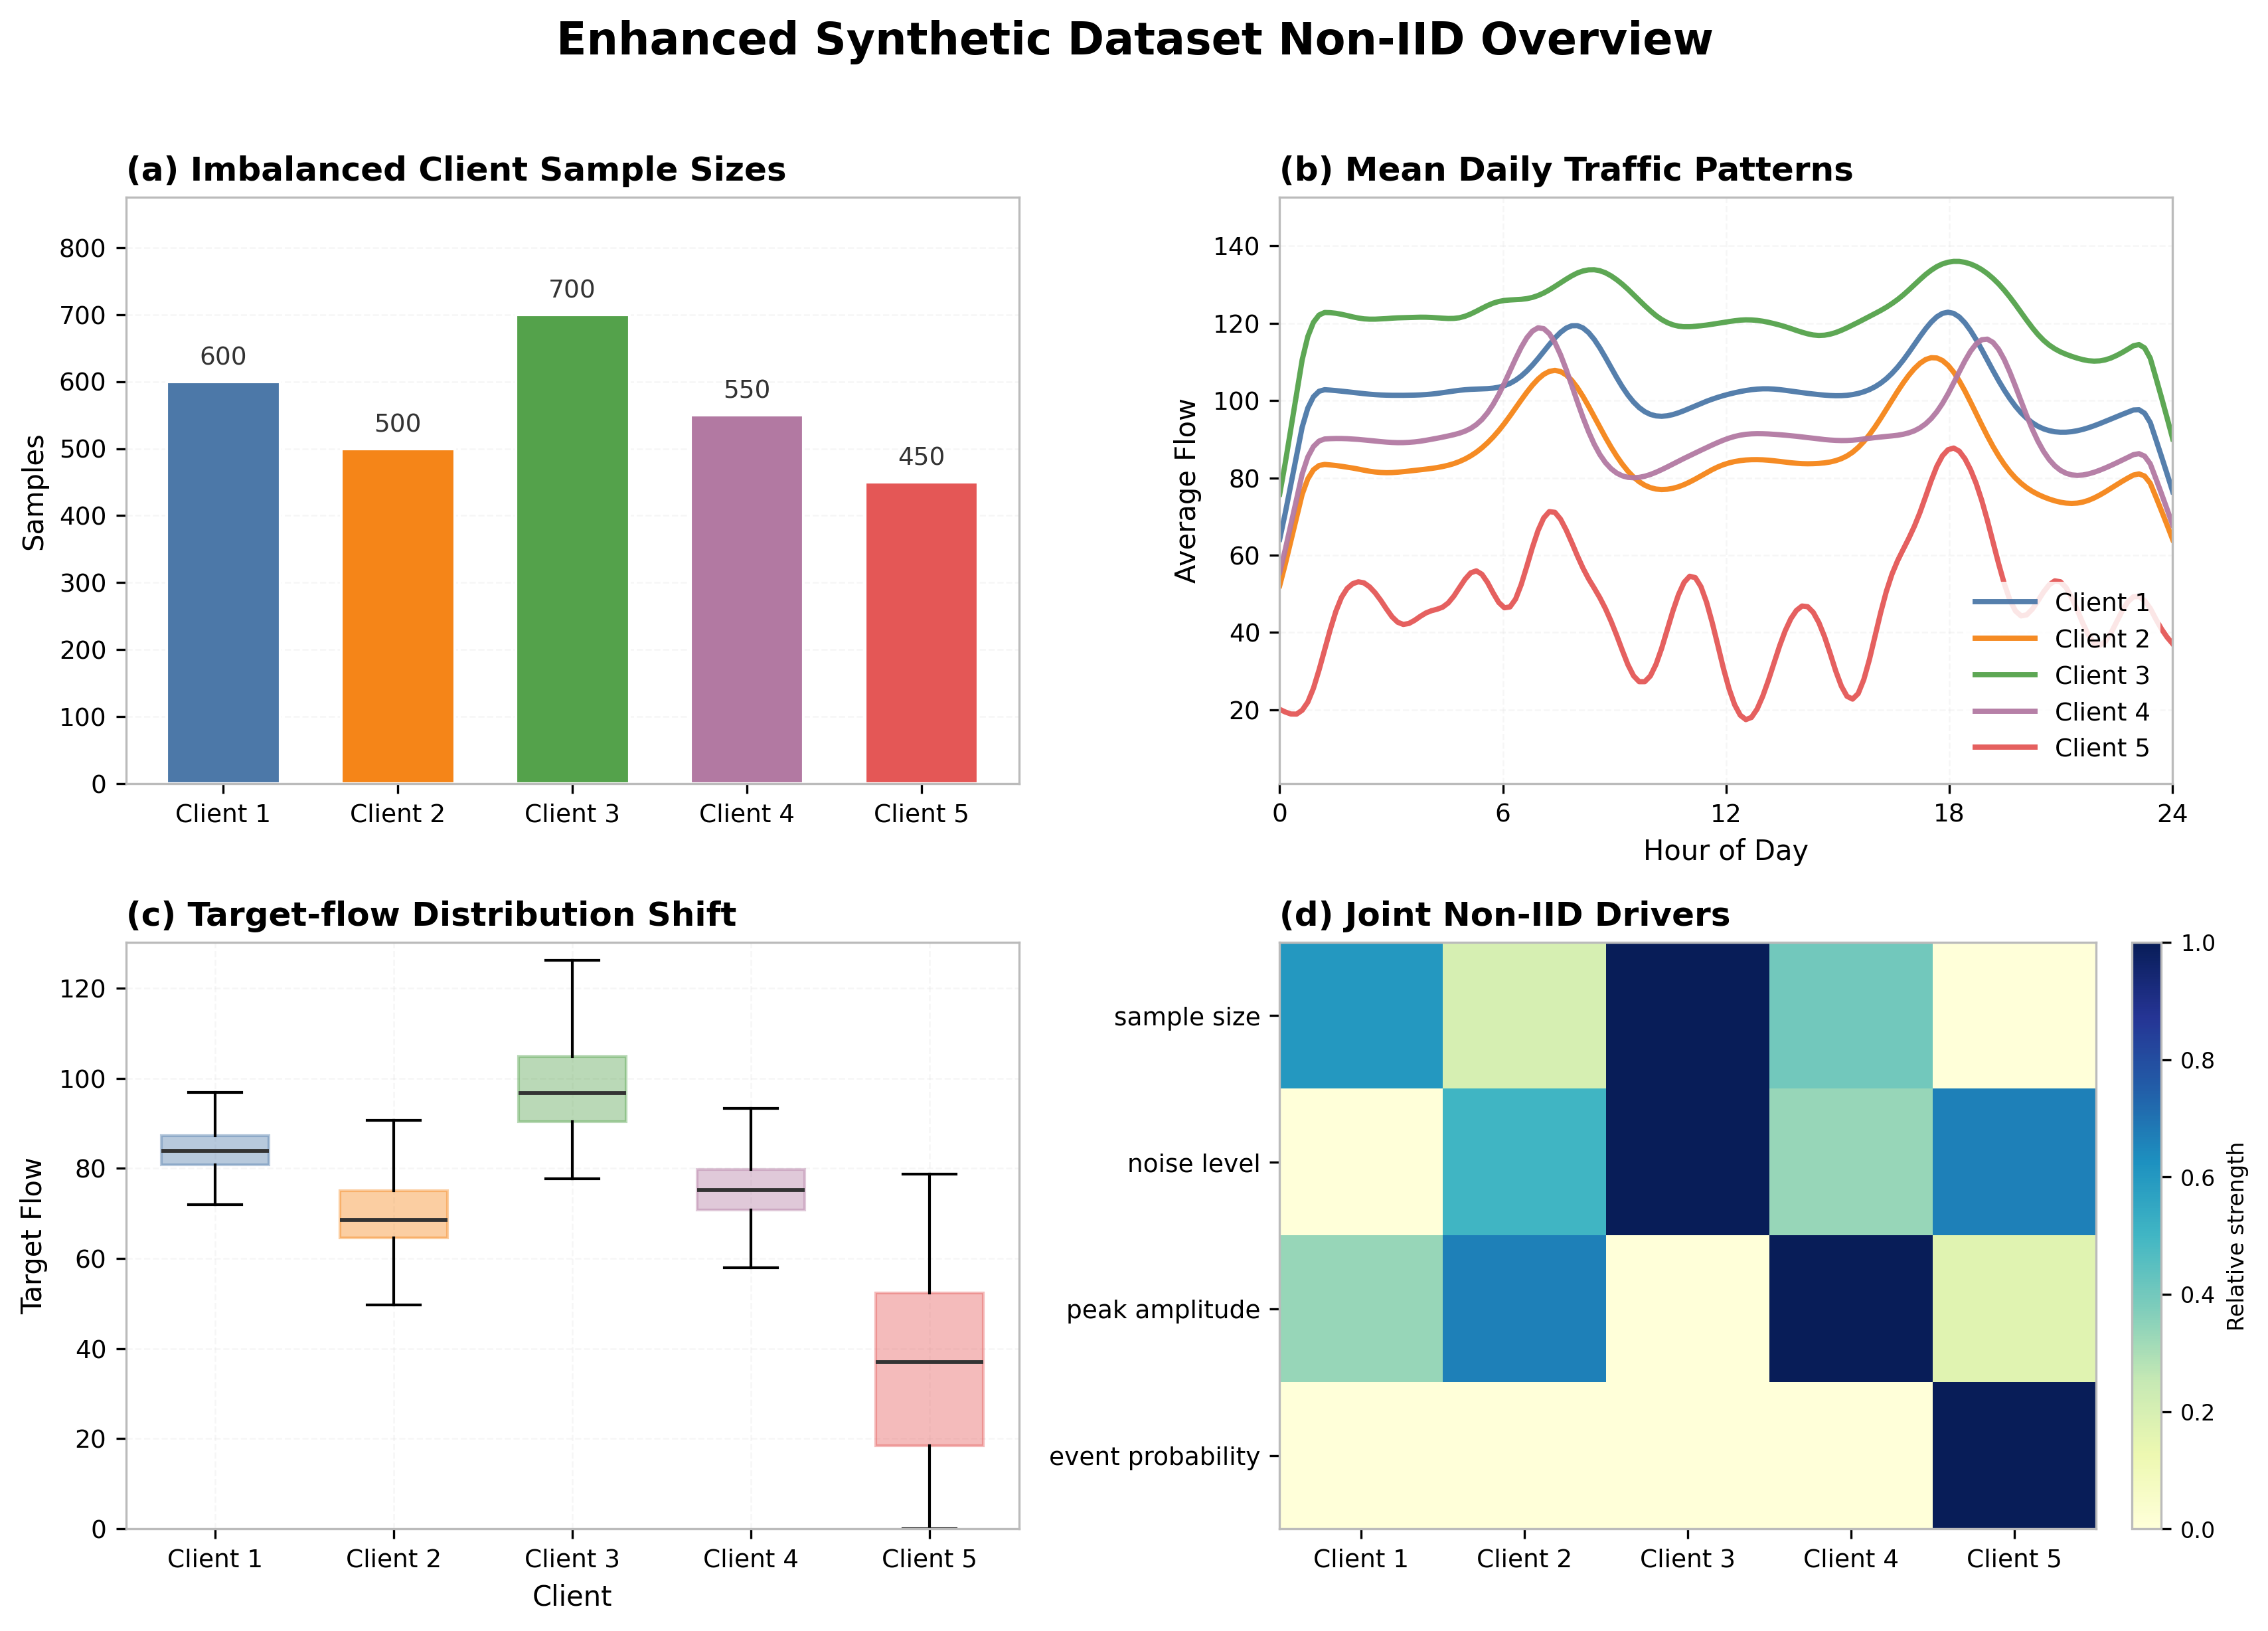
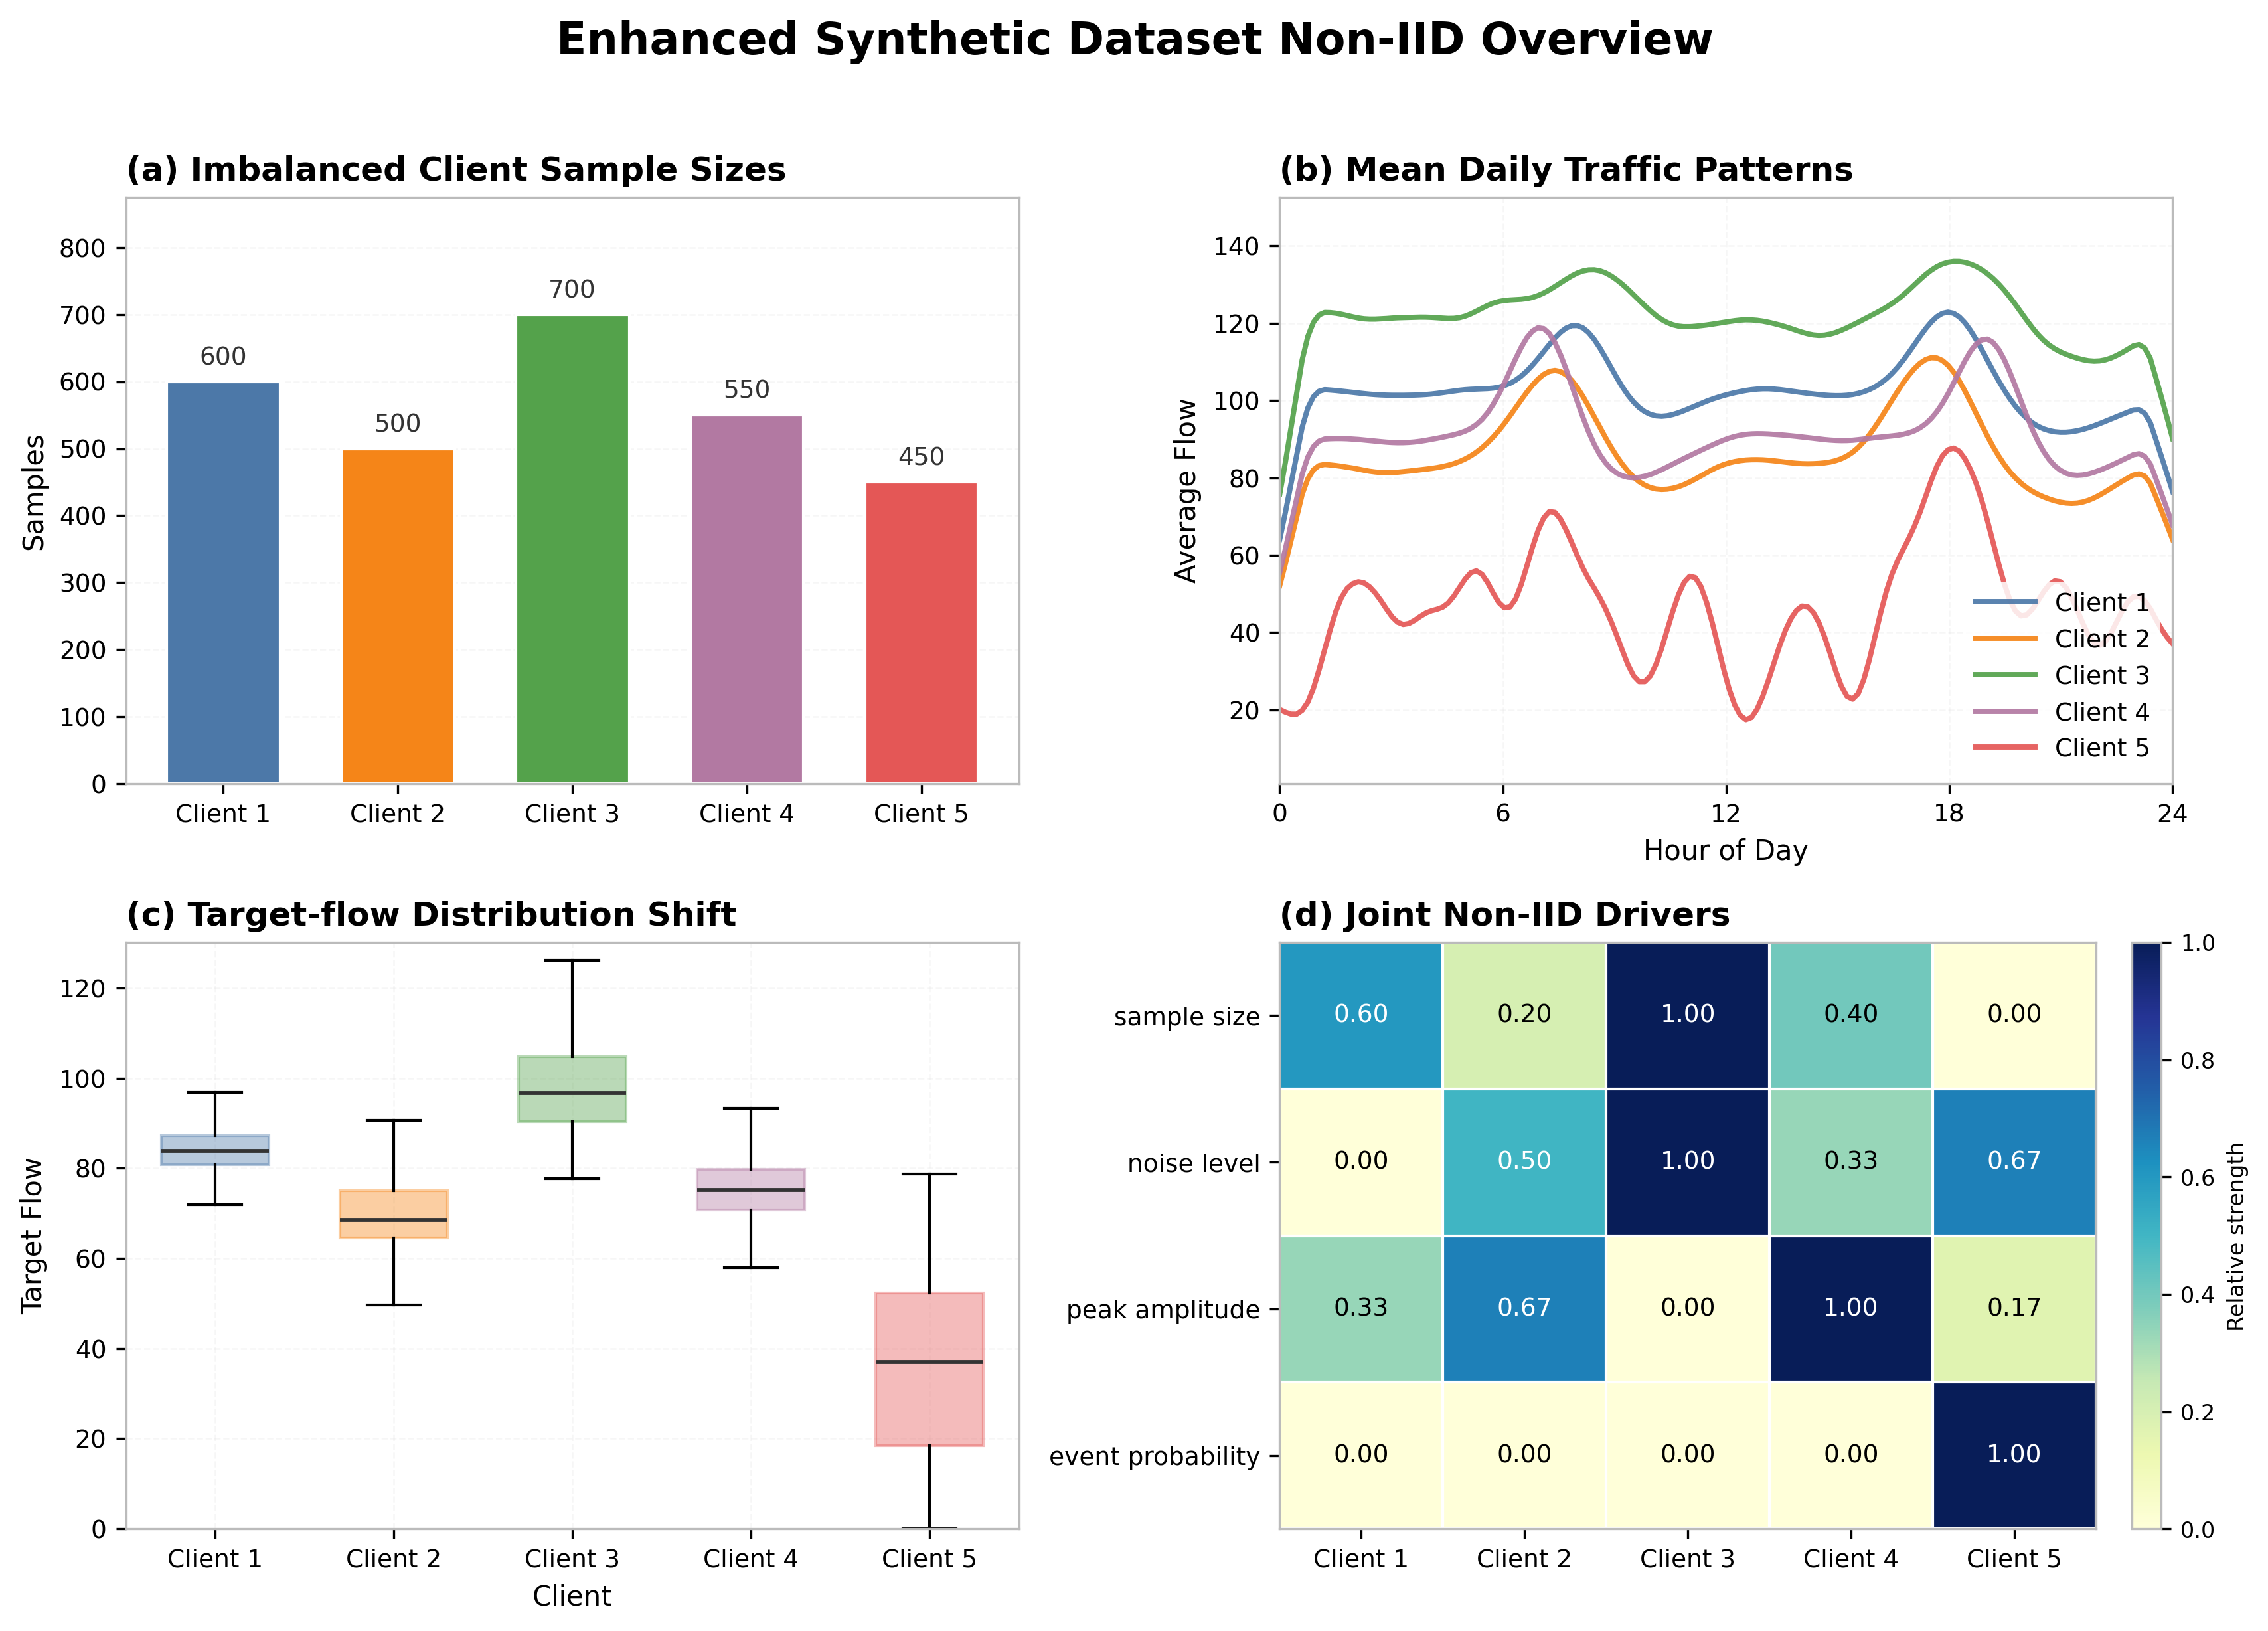
Refine overview trajectories and annotate heatmaps

Changed region(s): [[0.5896, 0.8664, 0.6206, 0.8974]]

diff --git a/simulation_experiments/simulation_dataset_overview_visualization.py b/simulation_experiments/simulation_dataset_overview_visualization.py
@@ -101,6 +101,30 @@ def _configure_line_panel(ax, legend_items: int) -> None:
     legend.get_frame().set_edgecolor("none")
 
 
+def annotate_heatmap(
+    ax,
+    data: np.ndarray,
+    fmt: str = "{:.2f}",
+    threshold: float = 0.5,
+    fontsize: int = 9,
+) -> None:
+    data = np.asarray(data, dtype=float)
+    n_rows, n_cols = data.shape
+    for i in range(n_rows):
+        for j in range(n_cols):
+            value = float(data[i, j])
+            text_color = "white" if value >= threshold else "black"
+            ax.text(
+                j,
+                i,
+                fmt.format(value),
+                ha="center",
+                va="center",
+                color=text_color,
+                fontsize=fontsize,
+            )
+
+
 def _prepare_base_data() -> dict[str, object]:
     all_x, all_y, meta = cfb_core.generate_base_traffic_data(seed=cfb_core.BASE_SEED)
     mean_series = [_smooth_curve(client_x.mean(axis=(0, 1)), window=3) for client_x in all_x]
@@ -172,6 +196,11 @@ def _draw_driver_heatmap(
     ax.set_xticklabels(col_labels)
     ax.set_yticks(np.arange(len(row_labels)))
     ax.set_yticklabels(row_labels)
+    ax.set_xticks(np.arange(matrix.shape[1] + 1) - 0.5, minor=True)
+    ax.set_yticks(np.arange(matrix.shape[0] + 1) - 0.5, minor=True)
+    ax.grid(which="minor", color="white", linestyle="-", linewidth=1)
+    ax.tick_params(which="minor", bottom=False, left=False)
+    annotate_heatmap(ax, matrix, threshold=0.5, fontsize=9)
     cbar = fig.colorbar(im, ax=ax, fraction=0.046, pad=0.04)
     cbar.set_label(strength_label, fontsize=8)
     cbar.ax.tick_params(labelsize=8)
@@ -226,29 +255,19 @@ def generate_base_dataset_overview(output_dir: Path) -> None:
             time_axis,
             series,
             lw=1.9,
-            alpha=0.95,
+            alpha=0.92,
             color=COLORS[cid],
             label=base_labels[cid],
         )
-    overall_mean = np.mean(np.vstack(base_data["mean_series"]), axis=0)
-    axes[0, 1].plot(
-        time_axis,
-        overall_mean,
-        color="#222222",
-        lw=1.8,
-        ls="--",
-        alpha=0.75,
-        label="Overall mean",
-    )
     axes[0, 1].set_title("(b) Mean Traffic Trajectories", loc="left", fontweight="bold")
     axes[0, 1].set_xlabel("Time Step")
     axes[0, 1].set_ylabel("Average Flow")
     y_min = min(float(np.min(series)) for series in base_data["mean_series"])
     y_max = max(float(np.max(series)) for series in base_data["mean_series"])
-    pad = max((y_max - y_min) * 0.16, 0.06)
+    pad = max((y_max - y_min) * 0.20, 0.07)
     axes[0, 1].set_ylim(max(0.0, y_min - pad), y_max + pad)
     axes[0, 1].set_xlim(time_axis[0], time_axis[-1])
-    _configure_line_panel(axes[0, 1], legend_items=len(base_labels) + 1)
+    _configure_line_panel(axes[0, 1], legend_items=len(base_labels))
 
     target_data = [np.asarray(targets, dtype=float) for targets in base_data["targets"]]
     box = axes[1, 0].boxplot(target_data, patch_artist=True, widths=0.6, showfliers=False)
@@ -296,7 +315,7 @@ def generate_enhanced_noniid_overview(output_dir: Path) -> None:
             enhanced_data["hours"],
             series,
             lw=1.9,
-            alpha=0.95,
+            alpha=0.92,
             color=COLORS[cid],
             label=enhanced_labels[cid],
         )

diff --git a/paper_revision/manuscript_sections_zh/current/simulation_experiment_formal_module_zh_v4.md b/paper_revision/manuscript_sections_zh/current/simulation_experiment_formal_module_zh_v4.md
@@ -23,13 +23,13 @@
 
 ![图 1 基础仿真数据集构造示意图](../../../results/simulation_experiments/dataset_overview/base_simulation_dataset_overview.png)
 
-注：图 1 展示了基础仿真交通流数据集的构造特征。该数据集在节点规模和输入输出设置上保持一致，同时引入轻度样本量不平衡以及可观察但受控的流量水平差异、高峰强度差异、相位偏移和噪声差异。图中的弱异质性驱动因素热力图用于展示不同客户端之间相对温和的异质性强度。
+注：图 1 展示了基础仿真交通流数据集的构造特征。该数据集在节点规模和输入输出设置上保持一致，同时引入轻度样本量不平衡以及可观察但受控的流量水平差异、高峰强度差异、相位偏移和噪声差异。图中的弱异质性驱动因素热力图以颜色和数值共同展示不同客户端之间相对温和的异质性强度。
 
 图 2 给出了增强仿真数据集的 Non-IID 构造示意图。增强仿真数据集用于模拟样本量不平衡、分布族差异、噪声差异、高峰模式差异和事件扰动共同作用下的 Non-IID 联邦交通预测环境，从而更接近跨区域交通监测中的客户端异构场景。
 
 ![图 2 增强仿真数据集 Non-IID 构造示意图](../../../results/simulation_experiments/dataset_overview/enhanced_simulation_noniid_overview.png)
 
-注：图 2 展示了增强仿真数据集中的 Non-IID 构造方式。与基础数据集相比，增强数据集进一步引入更明显的样本量不平衡、分布偏移、噪声水平差异、高峰模式差异和事件扰动。图中的 Non-IID 驱动因素热力图用于展示不同客户端在多种异质性来源上的相对强度差异。
+注：图 2 展示了增强仿真数据集中的 Non-IID 构造方式。与基础数据集相比，增强数据集进一步引入更明显的样本量不平衡、分布偏移、噪声水平差异、高峰模式差异和事件扰动。图中的 Non-IID 驱动因素热力图以颜色和数值共同展示不同客户端在多种异质性来源上的相对强度差异。
 
 ## FedAvg 联邦训练流程与评价指标
 

diff --git a/paper_revision/manuscript_sections_zh/simulation_experiment_formal_module_zh_v4.md b/paper_revision/manuscript_sections_zh/simulation_experiment_formal_module_zh_v4.md
@@ -23,13 +23,13 @@
 
 ![图 1 基础仿真数据集构造示意图](../../../results/simulation_experiments/dataset_overview/base_simulation_dataset_overview.png)
 
-注：图 1 展示了基础仿真交通流数据集的构造特征。该数据集在节点规模和输入输出设置上保持一致，同时引入轻度样本量不平衡以及可观察但受控的流量水平差异、高峰强度差异、相位偏移和噪声差异。图中的弱异质性驱动因素热力图用于展示不同客户端之间相对温和的异质性强度。
+注：图 1 展示了基础仿真交通流数据集的构造特征。该数据集在节点规模和输入输出设置上保持一致，同时引入轻度样本量不平衡以及可观察但受控的流量水平差异、高峰强度差异、相位偏移和噪声差异。图中的弱异质性驱动因素热力图以颜色和数值共同展示不同客户端之间相对温和的异质性强度。
 
 图 2 给出了增强仿真数据集的 Non-IID 构造示意图。增强仿真数据集用于模拟样本量不平衡、分布族差异、噪声差异、高峰模式差异和事件扰动共同作用下的 Non-IID 联邦交通预测环境，从而更接近跨区域交通监测中的客户端异构场景。
 
 ![图 2 增强仿真数据集 Non-IID 构造示意图](../../../results/simulation_experiments/dataset_overview/enhanced_simulation_noniid_overview.png)
 
-注：图 2 展示了增强仿真数据集中的 Non-IID 构造方式。与基础数据集相比，增强数据集进一步引入更明显的样本量不平衡、分布偏移、噪声水平差异、高峰模式差异和事件扰动。图中的 Non-IID 驱动因素热力图用于展示不同客户端在多种异质性来源上的相对强度差异。
+注：图 2 展示了增强仿真数据集中的 Non-IID 构造方式。与基础数据集相比，增强数据集进一步引入更明显的样本量不平衡、分布偏移、噪声水平差异、高峰模式差异和事件扰动。图中的 Non-IID 驱动因素热力图以颜色和数值共同展示不同客户端在多种异质性来源上的相对强度差异。
 
 ## FedAvg 联邦训练流程与评价指标
 